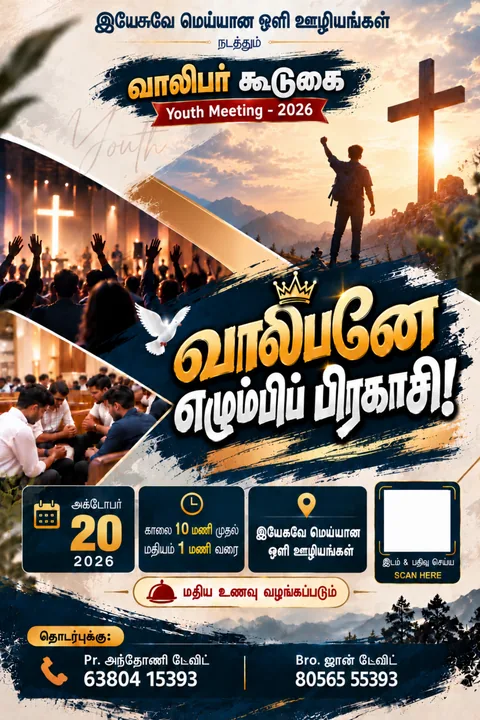
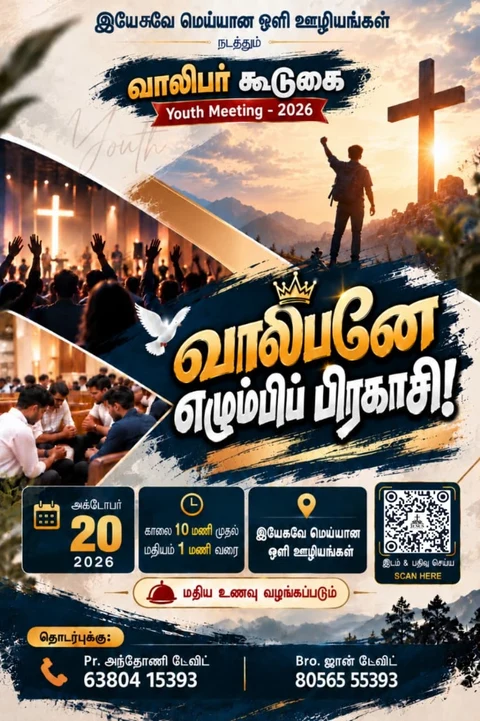
feat: update official poster with integrated QR code and add poster/QR links

diff --git a/src/components/HeroSection.tsx b/src/components/HeroSection.tsx
@@ -72,16 +72,27 @@ export default function HeroSection() {
 
         {/* The actual poster, framed — never re-typed */}
         <figure className="mx-auto w-full max-w-[19rem] sm:max-w-sm lg:max-w-none lg:justify-self-end">
-          <div className="relative rotate-0 rounded-2xl bg-gradient-to-b from-gold-300 via-gold-500 to-gold-700 p-[3px] shadow-deep lg:rotate-[2.5deg] lg:transition-transform lg:duration-500 lg:hover:rotate-0">
-            <img
-              src={c.images.posterSmall}
-              width={683}
-              height={1024}
-              alt="வாலிபர் கூடுகை Youth Meeting 2026 அதிகாரப்பூர்வ சுவரொட்டி — Official event poster showing a young man with a raised fist before a cross at sunrise, with the event date 20 October 2026 and contact numbers"
-              className="block h-auto w-full rounded-[0.85rem]"
-            />
-          </div>
-          <figcaption className="mt-3 text-center text-sm text-white/60">அதிகாரப்பூர்வ சுவரொட்டி | Official poster</figcaption>
+          <a
+            href={c.images.poster}
+            target="_blank"
+            rel="noopener noreferrer"
+            title="முழு சுவரொட்டியைக் காண அழுத்தவும் | Click to view full poster"
+            className="group block"
+          >
+            <div className="relative rotate-0 rounded-2xl bg-gradient-to-b from-gold-300 via-gold-500 to-gold-700 p-[3px] shadow-deep transition-all duration-300 group-hover:scale-[1.02] lg:rotate-[2.5deg] lg:group-hover:rotate-0">
+              <img
+                src={c.images.posterSmall}
+                width={682}
+                height={1024}
+                alt="வாலிபர் கூடுகை Youth Meeting 2026 அதிகாரப்பூர்வ சுவரொட்டி — Official event poster with integrated QR code, 20 October 2026"
+                className="block h-auto w-full rounded-[0.85rem]"
+              />
+            </div>
+          </a>
+          <figcaption className="mt-3 text-center text-sm text-white/60">
+            அதிகாரப்பூர்வ சுவரொட்டி | Official poster
+            <span className="block text-xs text-gold-300/80">(QR குறியீட்டுடன் | with QR Code)</span>
+          </figcaption>
         </figure>
       </div>
       <BrushEdge edge="bottom" colorClass="text-cream" seed={3} />

diff --git a/src/components/RegistrationSection.tsx b/src/components/RegistrationSection.tsx
@@ -1,6 +1,6 @@
 import { useEffect, useState } from 'react'
 import { ExternalLink, Loader2 } from 'lucide-react'
-import { GOOGLE_FORM_EMBED_URL, GOOGLE_FORM_URL, SECTION_IDS } from '../config/event'
+import { GOOGLE_FORM_EMBED_URL, GOOGLE_FORM_URL, SECTION_IDS, eventConfig as c } from '../config/event'
 import Section from './Section'
 import SectionHeading from './SectionHeading'
 
@@ -55,13 +55,20 @@ export default function RegistrationSection() {
         </p>
       )}
 
-      <div className="mt-8 flex flex-col items-start gap-3 sm:flex-row sm:items-center sm:gap-5">
+      <div className="mt-8 flex flex-col items-start gap-3 sm:flex-row sm:items-center sm:gap-4">
         <a href={GOOGLE_FORM_URL} target="_blank" rel="noopener noreferrer" className="btn btn-navy">
           <ExternalLink size={20} aria-hidden="true" />
           படிவத்தைத் தனி தாவலில் திற | Open Registration Form
           <span className="sr-only">(opens in a new tab)</span>
         </a>
-        <p className="text-sm text-midnight-800/70">படிவம் ஏற்றப்படவில்லையா? இந்தப் பொத்தானைப் பயன்படுத்துங்கள். Form not showing? Use this button.</p>
+        <a
+          href={c.images.poster}
+          target="_blank"
+          rel="noopener noreferrer"
+          className="btn border border-midnight-900/20 bg-white/80 text-midnight-900 shadow-sm hover:bg-white"
+        >
+          சுவரொட்டி & QR குறியீடு | View Poster & QR
+        </a>
       </div>
     </Section>
   )

diff --git a/src/config/event.ts b/src/config/event.ts
@@ -107,6 +107,7 @@ export const eventConfig = {
     logoWebp: './images/logo.webp',
     poster: './images/poster.webp',
     posterSmall: './images/poster-small.webp',
+    qr: './images/poster-qr.png',
     heroBackdrop: './images/hero-cross.webp',
     worship: './images/worship.webp',
     prayer: './images/prayer.webp',
